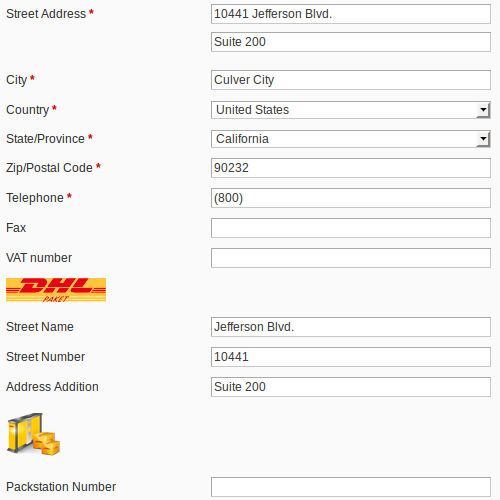
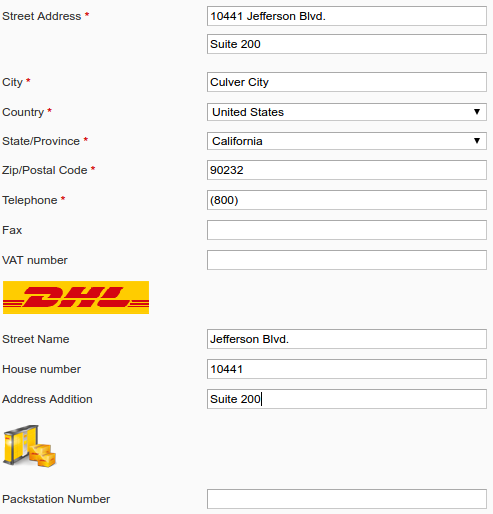
DHLGKP-57: update documentation for newest version

diff --git a/src/skin/adminhtml/default/default/dhl_versenden.css b/src/skin/adminhtml/default/default/dhl_versenden.css
@@ -49,6 +49,7 @@
 #packaging-dhlversenden-services dt input[type=checkbox] {
     position: absolute;
     left: 0;
+    z-index: 100;
 }
 
 #packaging-dhlversenden-services dd {

diff --git a/doc/src/EndKundenDoku.rst b/doc/src/EndKundenDoku.rst
@@ -290,6 +290,10 @@ Bei der Erzeugung von Bestellungen im Admin Panel stehen keine Zusatzleistungen
 zur Verfügung. Nachnahme-Zahlarten werden ebenso wie im Checkout deaktiviert, falls
 der Nachnahme-Service für die gewählte Lieferadresse nicht zur Verfügung steht.
 
+.. raw:: pdf
+
+   PageBreak
+
 DHL Lieferadressen (Packstationen, Postfilialen, Paket-Shops)
 ~~~~~~~~~~~~~~~~~~~~~~~~~~~~~~~~~~~~~~~~~~~~~~~~~~~~~~~~~~~~~
 
@@ -357,10 +361,6 @@ sowie den Inhaltstyp der Sendung an.
 
 Gehen Sie ansonsten wie im Abschnitt `Nationale Sendungen`_ beschrieben vor.
 
-.. raw:: pdf
-
-   PageBreak
-
 Service-Auswahl
 ~~~~~~~~~~~~~~~
 
@@ -375,6 +375,10 @@ werden im Popup zur Definition der im Paket enthaltenen Artikel eingeblendet.
 Die vom Kunden im Checkout gewählten Services sind entsprechend vorbelegt, ebenso
 wie die *Adressprüfung* (Nur leitkodierbare Versandaufträge erteilen) gemäß der
 Modulkonfiguration_.
+
+.. raw:: pdf
+
+   PageBreak
 
 Drucken eines Paketaufklebers
 -----------------------------
@@ -418,7 +422,7 @@ automatisch erzeugten Versandaufträge hinzugebucht werden sollen.
    ::
 
       # m h dom mon dow user command
-      */5 * * * * /bin/sh /absolute/path/to/magento/cron.sh
+      */15 * * * * /bin/sh /absolute/path/to/magento/cron.sh
 
 Im Abstand von 15 Minuten wird die Extension *DHL Versenden* alle gemäß der
 getroffenen Einstellungen versandbereiten Bestellungen sammeln, Lieferscheine
@@ -479,7 +483,7 @@ Fehlerhafte Versandaufträge können wie folgt manuell korrigiert werden:
 
 
 .. image:: images/de/edit_address_form.png
-   :scale: 75 %
+   :scale: 175 %
 
 Speichern Sie anschließend die Adresse. Wurde die Fehlerursache behoben, so kann
 das manuelle `Erstellen eines Versandauftrags`_ erneut durchgeführt werden.
